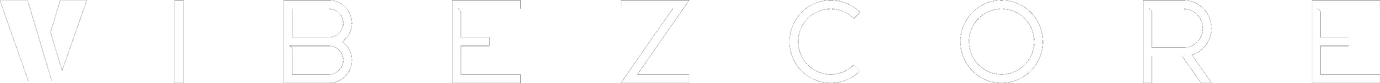
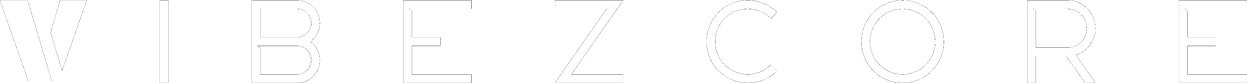
Brand: VIBEZCORE letter spacing x1.25 (a bit tighter than x1.5)

diff --git a/src/app/welcome.tsx b/src/app/welcome.tsx
@@ -444,10 +444,10 @@ const s = StyleSheet.create({
   topWordmark: {
     marginTop: 12,
     /* vibezcore_wordmark_spaced.png: zelfde letters als het woordmerk,
-       tussenruimte ×1,5 t.o.v. vibezcore_wordmark_wide (operator, 10 okt
-       2026: "letters verder uiteen", keuze B). 1380×83 → zelfde
-       lettergrootte als voorheen (168 breed bij 1120). */
-    width: 207,
+       tussenruimte ×1,25 t.o.v. vibezcore_wordmark_wide (operator, 10 okt
+       2026: "letters verder uiteen" → ×1,5, daarna "beetje dichter terug").
+       1247×83 → zelfde lettergrootte als voorheen (168 breed bij 1120). */
+    width: 187,
     height: 12.5,
   },
   topTagline: {
